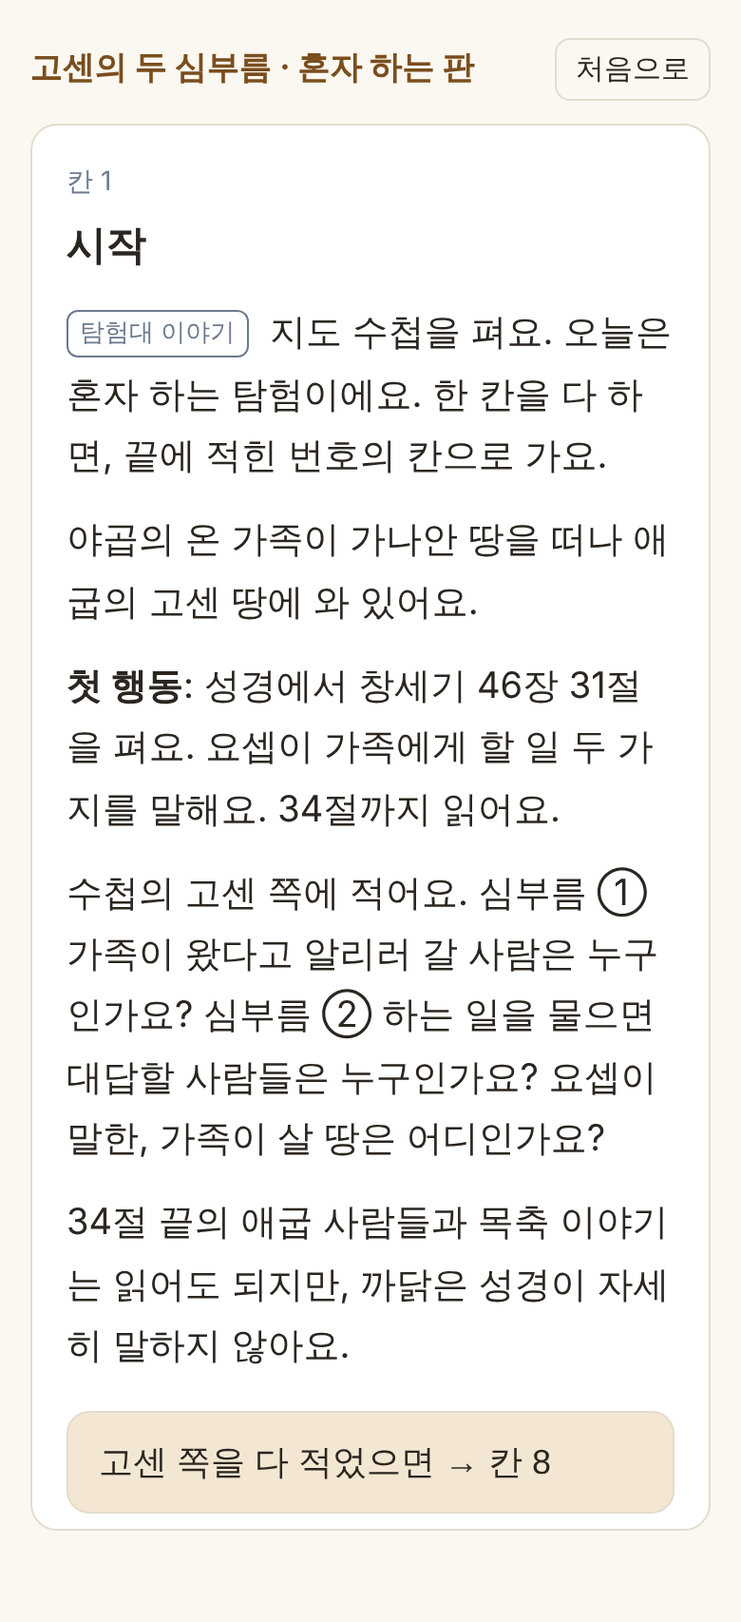
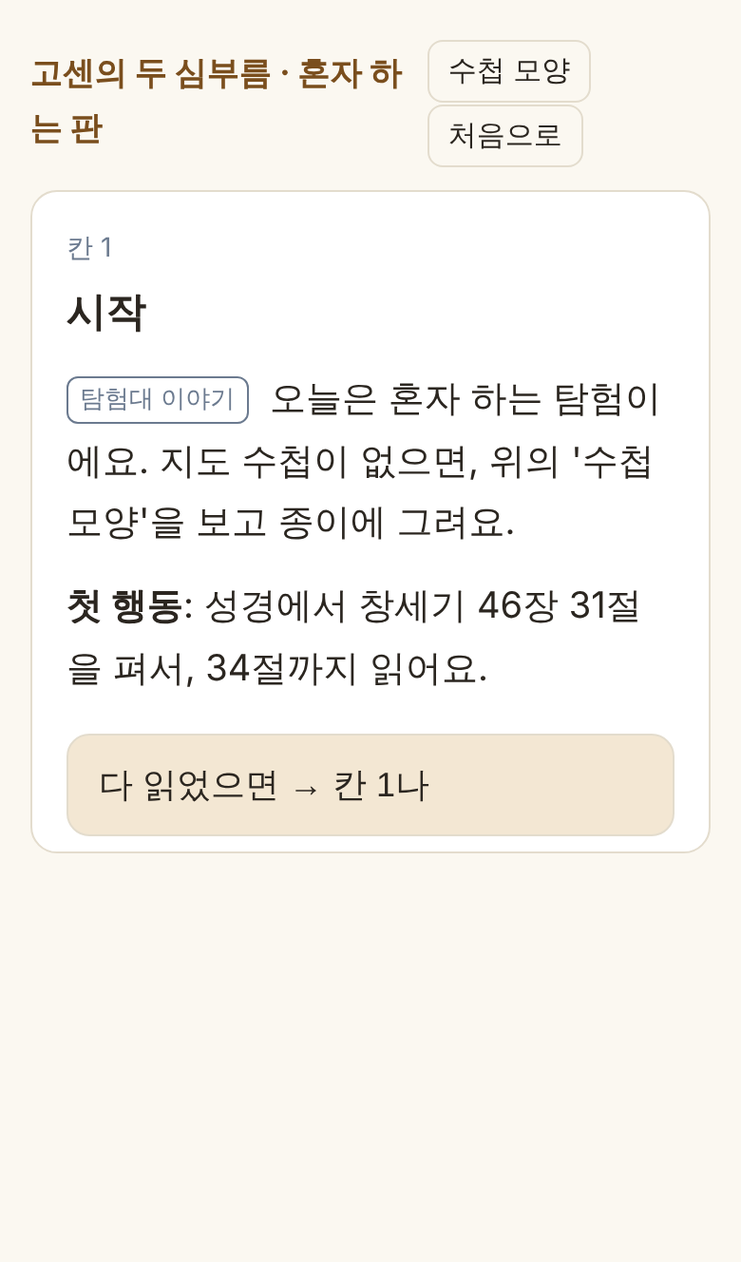
C16 혼자 하는 판: 별도 검증 반영, 긴 칸 나눔, 화면판 다시 시험
Claude-Session: https://claude.ai/code/session_011ypqq5pUoRzZHG4w3uRk8M

diff --git a/docs/창세기/연속/C16.html b/docs/창세기/연속/C16.html
@@ -19,12 +19,13 @@ p{margin:0 0 12px}
 .btns button{font-size:18px;text-align:left;background:var(--btn);color:var(--fg);border:1px solid var(--line);border-radius:12px;padding:14px 16px;cursor:pointer}
 .end{margin-top:16px;font-weight:600;color:var(--accent)}
 </style></head><body><main>
-<header><h1>고센의 두 심부름 · 혼자 하는 판</h1><button class="home" id="home">처음으로</button></header>
+<header><h1>고센의 두 심부름 · 혼자 하는 판</h1><span><button class="home" id="nb">수첩 모양</button> <button class="home" id="home">처음으로</button></span></header>
 <div class="card" id="card"></div>
 </main>
 <script>
-const D={"1": {"name": "시작", "paras": ["<span class=\"tag\">탐험대 이야기</span> 지도 수첩을 펴요. 오늘은 혼자 하는 탐험이에요. 한 칸을 다 하면, 끝에 적힌 번호의 칸으로 가요.", "야곱의 온 가족이 가나안 땅을 떠나 애굽의 고센 땅에 와 있어요.", "<strong>첫 행동</strong>: 성경에서 창세기 46장 31절을 펴요. 요셉이 가족에게 할 일 두 가지를 말해요. 34절까지 읽어요.", "수첩의 고센 쪽에 적어요. 심부름 ① 가족이 왔다고 알리러 갈 사람은 누구인가요? 심부름 ② 하는 일을 물으면 대답할 사람들은 누구인가요? 요셉이 말한, 가족이 살 땅은 어디인가요?", "34절 끝의 애굽 사람들과 목축 이야기는 읽어도 되지만, 까닭은 성경이 자세히 말하지 않아요."], "btns": [{"to": "8", "label": "고센 쪽을 다 적었으면"}], "end": false}, "3": {"name": "● 쪽: 만나러 간 사람", "paras": ["창세기 47장 1절을 펴요. 요셉은 누구에게 갔나요? 46장 31절에서 요셉이 알리러 가겠다고 한 사람과 같은지도 봐요.", "<span class=\"tag\">탐험대 이야기</span> ● 쪽 맨 위와 수첩 겉의 ● 칸에 그 이름을 적어요. 만난 차례의 첫째 칸에는 &#x27;요셉&#x27;을 적어요.", "아버지와 형들이 와 있다는 것을, 요셉이 그 사람에게 알렸어요. 첫째 심부름이에요."], "btns": [{"to": "5", "label": "다 적었으면"}], "end": false}, "4": {"name": "고르기: 먹을 것", "paras": ["먹을 것도 요셉이 가족에게 주었어요.", "이번에는 성경을 덮고 먼저 골라요. 요셉은 먹을 것을 무엇에 맞춰 주었을까요?"], "btns": [{"to": "15", "label": "가축 수에 맞춰"}, {"to": "10", "label": "식구 수에 맞춰"}], "end": false}, "5": {"name": "고르기: 형은 몇 명", "paras": ["다음에는 요셉이 형들을 바로 앞에 데려갔어요. 형들 가운데 몇 사람만 골라서요.", "이번에는 성경을 덮고 먼저 골라요. 바로 앞에 간 형은 몇 명이었을까요?"], "btns": [{"to": "12", "label": "열 명"}, {"to": "7", "label": "다섯 명"}], "end": false}, "7": {"name": "형 다섯 명과 둘째 심부름", "paras": ["창세기 47장 2절을 펴서, 바로 앞에 간 형의 수를 확인해요. 만난 차례의 둘째 칸에 &#x27;형 (　) 명&#x27;을 적어요. 수첩 겉의 ● 칸 아래에도 그 수를 적어요.", "47장 3절을 읽어요. 형들에게 바로가 무엇을 물었나요?", "형들은 자기들 말고 또 누가 그 일을 했다고 대답했나요? 46장 34절 요셉의 말에도 같은 낱말이 있어요. 형들의 대답 칸에 적어요. (&#x27;우리&#x27;나 &#x27;종들&#x27;도 두 곳에 다 있지만, 사람을 가리키는 낱말을 찾아요.)", "47장 7절을 읽어요. 마지막으로 바로 앞에 선 사람은 누구인가요? 만난 차례의 셋째 칸에 적어요."], "btns": [{"to": "9", "label": "다 적었으면"}], "end": false}, "8": {"name": "고센 쪽 확인", "paras": ["내 답과 견줘 봐요. 심부름 ①은 요셉이에요. 심부름 ②는 형들이에요(&#x27;형들과 아버지의 가족&#x27;도 맞아요). 요셉이 말한 땅은 고센이에요(46장 34절).", "다른 곳이 있으면 46장 31–34절을 다시 읽고 고쳐요.", "이제 먼저 풀 물음을 하나 골라요. 맞고 틀림은 없어요."], "btns": [{"to": "3", "label": "누구를 만나러 갔나?"}, {"to": "11", "label": "무엇을 받았나?"}], "end": false}, "9": {"name": "● 쪽 확인", "paras": ["내 답과 견줘 봐요. 요셉이 간 사람은 바로예요(47장 1절). 만난 차례는 요셉 → 형 다섯 명 → 아버지 야곱이에요(47장 1, 2, 7절). 바로가 물은 것은 생업, 곧 하는 일이에요(47장 3절). 같은 낱말은 &#x27;선조&#x27;예요(46장 34절, 47장 3절).", "다른 곳이 있으면 그 절을 다시 읽고 고쳐요.", "<span class=\"tag\">탐험대 이야기</span> 일지에 적어요. ● 바로를 만난 차례(창세기 47장 1, 2, 7절), 두 심부름(창세기 46장 31–34절, 47장 1–3절), 다른 때 칸을 다녀왔으면 곡식을 사러 온 날(창세기 42장 3, 6절).", "▲ 쪽을 아직 안 했으면 지금 할 수도 있고, 다음에 해도 돼요."], "btns": [{"to": "11", "label": "▲ 쪽을 지금 한다"}, {"to": "16", "label": "오늘은 여기까지"}], "end": false}, "10": {"name": "먹을 것 확인하기", "paras": ["창세기 47장 12절을 펴요. 라암셋이 나온 절 바로 다음이에요.", "요셉은 먹을 것을 무엇에 맞춰 주었나요? ▲ 쪽 &#x27;먹을 것&#x27; 칸에 적어요."], "btns": [{"to": "13", "label": "다 적었으면"}], "end": false}, "11": {"name": "▲ 쪽: 받은 땅", "paras": ["창세기 47장 11절을 펴요. 요셉이 가족에게 준 땅의 이름은 무엇인가요?", "<span class=\"tag\">탐험대 이야기</span> ▲ 쪽 맨 위와 수첩 겉의 ▲ 칸에 그 이름을 적어요. 받은 것의 살 곳 칸에도 적어요.", "&#x27;고센&#x27;이 떠올랐나요? 고센은 47장 6절에서 바로가 말한 땅이에요. 요셉이 준 곳을 적은 11절에는 다른 이름이 나와요. 성경은 여기서 두 이름이 어떤 사이인지 말하지 않아요.", "47장 6절을 읽어요. 고센 쪽에 적은 땅 이름이 바로의 말에도 나오나요? ▲ 쪽 확인 칸에 &#x27;나온다&#x27; 또는 &#x27;안 나온다&#x27;를 적어요."], "btns": [{"to": "4", "label": "다 적었으면"}], "end": false}, "12": {"name": "다른 때: 곡식을 사러 온 날", "paras": ["<span class=\"tag\">탐험대 이야기</span> 다른 때로 가 봐요. 형들이 처음 곡식을 사러 애굽에 온 날이에요.", "창세기 42장 6절을 펴요. 형들이 그 앞에 엎드린 사람은 누구인가요? ● 쪽 맨 위에 적은 사람과 같은가요?", "42장 3절도 읽어요. 이날 곡식을 사러 온 형은 몇 명이었나요?", "열 명은 곡식을 사러 온 날의 형들이에요. 바로 앞에 간 형의 수는 47장에 있어요."], "btns": [{"to": "5", "label": "다시 고르러 (칸 5)"}], "end": false}, "13": {"name": "▲ 쪽 확인", "paras": ["내 답과 견줘 봐요. 요셉이 준 땅은 라암셋이에요(47장 11절). 고센은 바로의 말에도 나와요(47장 6절). 먹을 것은 식구 수대로 주었어요(47장 12절).", "다른 곳이 있으면 그 절을 다시 읽고 고쳐요.", "<span class=\"tag\">탐험대 이야기</span> 일지에 적어요. ▲ 가족이 받은 것(창세기 47장 11–12절), 요셉이 말한 땅과 바로의 말(창세기 46장 34절, 47장 6절), 다른 때 칸을 다녀왔으면 돈이 떨어진 때(창세기 47장 15–17절).", "● 쪽을 아직 안 했으면 지금 할 수도 있고, 다음에 해도 돼요."], "btns": [{"to": "3", "label": "● 쪽을 지금 한다"}, {"to": "16", "label": "오늘은 여기까지"}], "end": false}, "15": {"name": "다른 때: 돈이 떨어진 때", "paras": ["<span class=\"tag\">탐험대 이야기</span> 다른 때로 가 봐요. 흉년이 더 심해져 돈이 떨어진 때예요.", "창세기 47장 13–17절을 펴요. 돈이 떨어져 요셉에게 온 사람들은 누구인가요? ▲ 쪽에서 먹을 것을 받은 사람들과 같은가요?", "가축과 바꾸어 먹을 것을 받은 일은 애굽 백성에게 있었던 일이에요. 18절부터의 일은 이 판에서 읽지 않아도 돼요."], "btns": [{"to": "4", "label": "다시 고르러 (칸 4)"}], "end": false}, "16": {"name": "수첩 닫기", "paras": ["<span class=\"tag\">탐험대 이야기</span> 수첩 겉의 지도를 봐요. 빈칸을 몇 개 채웠나요? 남은 빈칸이 있으면, 다음에 칸 8에서 남은 물음을 골라 그 쪽을 열어요.", "(원하면) 한 문장 기도: 우리 가족에게 살 곳과 먹을 것을 주시는 하나님, 고맙습니다."], "btns": [], "end": true}};
+const D={"1": {"name": "시작", "paras": ["<span class=\"tag\">탐험대 이야기</span> 오늘은 혼자 하는 탐험이에요. 지도 수첩이 없으면, 위의 &#x27;수첩 모양&#x27;을 보고 종이에 그려요.", "<strong>첫 행동</strong>: 성경에서 창세기 46장 31절을 펴서, 34절까지 읽어요."], "btns": [{"to": "1나", "label": "다 읽었으면"}], "end": false}, "1나": {"name": "고센 쪽 채우기", "paras": ["요셉이 가족에게 할 일 두 가지를 말했어요. <span class=\"tag\">탐험대 이야기</span> 이 판에서는 그 두 가지를 &#x27;심부름&#x27;이라고 불러요.", "<span class=\"tag\">탐험대 이야기</span> 수첩의 고센 쪽에 적어요. 심부름 ①을 할 사람, 심부름 ②를 할 사람들, 요셉이 말한 가족이 살 땅이에요."], "btns": [{"to": "8", "label": "고센 쪽을 다 적었으면"}], "end": false}, "3": {"name": "● 쪽: 먼저 고르기", "paras": ["47장에서 요셉은 두 심부름을 하러 가요. 형들 가운데 몇 사람만 골라 데려가요.", "47장을 펴기 전에 먼저 골라요. 데려간 형은 몇 명이었을까요?"], "btns": [{"to": "12", "label": "열 명"}, {"to": "7", "label": "다섯 명"}], "end": false}, "7": {"name": "47장 처음 읽기", "paras": ["<span class=\"tag\">탐험대 이야기</span> 이제 47장을 펴요. 1절에서 요셉은 누구에게 갔나요? 46장 31절의 사람과 같은지도 봐요.", "<span class=\"tag\">탐험대 이야기</span> ● 쪽 맨 위, 겉의 ● 칸, 만난 차례의 첫째 칸(요셉)을 채워요."], "btns": [{"to": "7나", "label": "다 적었으면"}], "end": false}, "7나": {"name": "형들과 바로의 물음", "paras": ["47장 2절에서, 그 앞에 간 형의 수를 확인해요. <span class=\"tag\">탐험대 이야기</span> 만난 차례의 둘째 칸과 겉의 ● 칸 옆에 적어요.", "3절에서, 형들에게 바로가 무엇을 물었는지 찾아 &#x27;바로의 물음&#x27;에 적어요. (&#x27;생업&#x27;은 하는 일이에요.)"], "btns": [{"to": "7다", "label": "다 적었으면"}], "end": false}, "7다": {"name": "형들의 대답과 마지막 사람", "paras": ["3절에서, 형들은 자기들 말고 또 누가 그 일을 했다고 대답했나요? 46장 34절 요셉의 말에도 같은 낱말이 있어요.", "&#x27;우리&#x27;와 &#x27;종들&#x27;은 형들 자신이니, 자기들 말고 그 일을 한 사람을 찾아 적어요.", "7절에서, 마지막으로 바로 앞에 선 사람을 찾아 만난 차례의 셋째 칸에 적어요."], "btns": [{"to": "9", "label": "다 적었으면"}], "end": false}, "8": {"name": "고센 쪽 확인", "paras": ["내 답과 견줘 봐요. ①은 요셉, ②는 형들이에요(형들과 아버지의 가족도 맞아요).", "&#x27;당신들&#x27;이라고 적었다면 31절에서 요셉이 누구에게 말했는지 봐요. 가족이 살 땅은 고센이에요(46장 34절)."], "btns": [{"to": "8나", "label": "다른 곳은 다시 읽고 고쳐요."}], "end": false}, "8나": {"name": "먼저 풀 물음 고르기", "paras": ["이제 먼저 풀 물음을 하나 골라요. 맞고 틀림은 없어요."], "btns": [{"to": "3", "label": "누구를 만나러 갔나?"}, {"to": "11", "label": "무엇을 받았나?"}], "end": false}, "9": {"name": "● 쪽 확인", "paras": ["내 답과 견줘 봐요. 요셉이 간 사람은 바로예요(47장 1절). 만난 차례는 요셉 → 형 다섯 명 → 아버지 야곱이에요(47장 1, 2, 7절)."], "btns": [{"to": "9나", "label": "다른 곳은 다시 읽고 고쳐요."}], "end": false}, "9나": {"name": "● 쪽 확인 (이어서)", "paras": ["바로가 물은 것은 생업, 곧 하는 일이에요(3절). 형들이 말한 사람은 &#x27;선조&#x27;예요(46장 34절, 47장 3절).", "&#x27;우리&#x27;, &#x27;종들&#x27;은 형들 자신이라 답이 아니에요."], "btns": [{"to": "9다", "label": "다른 곳은 다시 읽고 고쳐요."}], "end": false}, "9다": {"name": "● 쪽 마무리", "paras": ["칸 12를 다녀왔다면, 형들이 엎드린 사람은 요셉이고 그날 온 형은 열 명이에요(42장 3, 6절). 바로 앞에 간 다섯 명과 다른 날이에요.", "<span class=\"tag\">탐험대 이야기</span> 일지에 적어요. &#x27;바로를 만난 차례 · 47장 1, 2, 7절 · 요셉 → 형 다섯 명 → 아버지 야곱&#x27;."], "btns": [{"to": "11", "label": "▲ 쪽도 지금 해요"}, {"to": "16", "label": "두 쪽을 다 했거나, 오늘은 여기까지"}], "end": false}, "10": {"name": "47장 11–12절 읽기", "paras": ["<span class=\"tag\">탐험대 이야기</span> 이제 47장을 펴요. 11절에서 요셉이 가족에게 준 땅의 이름을 찾아, ▲ 쪽 맨 위와 겉의 ▲ 칸, 받은 것의 살 곳에 적어요.", "바로 다음 12절에서, 먹을 것을 무엇에 맞춰 주었는지 찾아 받은 것의 먹을 것에 적어요."], "btns": [{"to": "10나", "label": "다 적었으면"}], "end": false}, "10나": {"name": "바로의 말", "paras": ["47장 6절을 읽어요. 고센 쪽에 적은 땅 이름이 바로의 말에도 나오나요?", "<span class=\"tag\">탐험대 이야기</span> ▲ 쪽 확인 칸에 &#x27;나온다&#x27; 또는 &#x27;안 나온다&#x27;를 적어요."], "btns": [{"to": "13", "label": "다 적었으면"}], "end": false}, "11": {"name": "▲ 쪽: 먼저 고르기", "paras": ["<span class=\"tag\">탐험대 이야기</span> ▲ 쪽은 &#x27;무엇을 받았나&#x27;예요. 요셉은 가족에게 먹을 것도 주었어요.", "47장을 펴기 전에 먼저 골라요. 먹을 것은 무엇에 맞춰 주었을까요?"], "btns": [{"to": "15", "label": "가축 수에 맞춰"}, {"to": "10", "label": "식구 수에 맞춰"}], "end": false}, "12": {"name": "다른 때: 곡식을 사러 온 날", "paras": ["<span class=\"tag\">탐험대 이야기</span> 다른 때로 가 봐요. 형들이 처음 곡식을 사러 애굽에 온 날이에요.", "42장 6절: 형들이 그 앞에 엎드린 사람은 누구인가요? 42장 3절: 이날 온 형은 몇 명인가요?"], "btns": [{"to": "3", "label": "찾았으면, 다시 고르러"}], "end": false}, "13": {"name": "▲ 쪽 확인", "paras": ["내 답과 견줘 봐요. 요셉이 준 땅은 라암셋이에요(47장 11절). 먹을 것은 식구 수대로 주었어요(12절). 고센은 바로의 말에도 나와요(6절)."], "btns": [{"to": "13나", "label": "다른 곳은 다시 읽고 고쳐요."}], "end": false}, "13나": {"name": "▲ 쪽 확인 (이어서)", "paras": ["고센과 라암셋이 어떤 사이인지 이곳에서 성경은 말하지 않아요. 같은 장 27절에는 가족이 고센 땅에 살았다고 적혀 있어요.", "칸 15를 다녀왔다면, 가축을 끌고 온 사람들은 애굽 백성이에요(47장 15–17절). 요셉의 가족과 다른 사람들이에요."], "btns": [{"to": "13다", "label": "다 읽었으면"}], "end": false}, "13다": {"name": "▲ 쪽 마무리", "paras": ["<span class=\"tag\">탐험대 이야기</span> 일지에 적어요. &#x27;가족이 받은 것 · 47장 11–12절 · 살 곳 라암셋 땅, 먹을 것 식구 수대로&#x27;."], "btns": [{"to": "3", "label": "● 쪽도 지금 해요"}, {"to": "16", "label": "두 쪽을 다 했거나, 오늘은 여기까지"}], "end": false}, "15": {"name": "다른 때: 돈이 떨어진 때", "paras": ["<span class=\"tag\">탐험대 이야기</span> 다른 때로 가 봐요. 흉년이 더 심해져 돈이 떨어진 때예요.", "47장 15–17절에서, 돈이 떨어져 요셉에게 온 사람들을 찾아봐요. 18절부터는 읽지 않아도 돼요."], "btns": [{"to": "11", "label": "찾았으면, 다시 고르러"}], "end": false}, "16": {"name": "수첩 닫기", "paras": ["<span class=\"tag\">탐험대 이야기</span> 수첩 겉의 지도를 봐요. 빈칸을 몇 개 채웠나요? 남은 빈칸이 있으면, 다음에 칸 8나에서 남은 물음을 골라요.", "(원하면) 한 문장 기도: 우리 가족에게 살 곳과 먹을 것을 주시는 하나님, 고맙습니다."], "btns": [], "end": true}};
 const FIRST="1";
+const NB="<p><span class=\"tag\">탐험대 이야기</span> <strong>겉 면</strong>: 가나안 땅 → 고센 땅 · ● (　　　) 앞, 그 앞에 선 형 (　) 명 · ▲ (　　　) 땅 · 칸의 자리는 실제 거리나 방향이 아니에요.</p><p><strong>고센 쪽 · 창세기 46장</strong>: 심부름 ① 가족이 왔다고 알리러 갈 사람 (　　) · 심부름 ② 하는 일을 물으면 대답할 사람들 (　　) · 요셉이 말한, 가족이 살 땅 (　　) 땅</p><p><strong>● 쪽 · 창세기 47장</strong>: (　　　) 앞 · 만난 차례: 첫째 (　　) → 둘째 (　　) → 셋째 (　　) · 바로의 물음 (　　) · 형들의 대답에서, 자기들 말고 그 일을 했다는 사람 (　　)</p><p><strong>▲ 쪽 · 창세기 47장</strong>: (　　　) 땅 · 받은 것: 살 곳 (　　), 먹을 것 (　　) · 확인: 고센 쪽에 적은 땅 이름이 바로의 말에도 나오나요? (나온다 / 안 나온다)</p>";
 function show(n){
   const s=D[n]; const c=document.getElementById('card');
   let h='<p class="num">칸 '+n+'</p><h2>'+s.name+'</h2>';
@@ -35,5 +36,6 @@ function show(n){
   c.querySelectorAll('button[data-to]').forEach(b=>b.addEventListener('click',()=>show(b.dataset.to)));
 }
 document.getElementById('home').addEventListener('click',()=>show(FIRST));
+document.getElementById('nb').addEventListener('click',()=>{const c=document.getElementById('card');const back=c.dataset.cur;c.innerHTML='<p class="num">수첩 빈칸 (답 없음)</p><h2>종이에 옮겨 그려요</h2>'+NB+'<div class="btns"><button id="back">하던 칸으로 돌아가기</button></div>';document.getElementById('back').addEventListener('click',()=>show(back));});
 show(FIRST);
 </script></body></html>

diff --git a/docs/창세기/연속/C16.md b/docs/창세기/연속/C16.md
@@ -1,129 +1,159 @@
 # C16 · 혼자서도 한 판 (고센의 두 심부름 1인판)
 
-C11(고센의 두 심부름)을 어른 없이 혼자 하는 판으로 고쳤다. 아이는 번호가 붙은 칸을 하나씩 읽고, 칸 끝에 적힌 번호로 간다. 고르기가 있는 칸에서는 고른 보기에 적힌 번호로 간다. 정답은 아이가 답을 적은 뒤에 가는 **확인 칸**에만 있다. 화면판(`C16.html`)은 한 번에 한 칸만 보여 주어 다음 칸의 정답이 보이지 않는다. 인쇄판은 한 쪽에 한 칸만 놓고 뒷면을 비워, 다음 쪽의 정답이 비치지 않게 한다. 첫 화면에는 첫 행동(창세기 46장 31절을 펴고 고센 쪽을 채우기)이 바로 보인다.
+C11(고센의 두 심부름)을 어른 없이 혼자 하는 판으로 고쳤다. 아이는 번호가 붙은 칸을 하나씩 읽고, 칸 끝에 적힌 번호로 간다. 고르기가 있는 칸에서는 고른 보기에 적힌 번호로 간다. 고르기는 47장을 펴기 전에 한다. 정답은 아이가 답을 적은 뒤에 가는 **확인 칸**에만 있다. 화면판(`C16.html`)은 한 번에 한 칸만 보여 주고, 위의 '수첩 모양' 단추로 답이 없는 수첩 빈칸을 보여 준다. 인쇄판은 확인 칸을 따로 떼어 봉투에 넣고, 나머지 칸은 한 쪽에 하나씩 인쇄한다. 첫 화면에는 첫 행동(창세기 46장 31절을 펴서 34절까지 읽기)이 바로 보인다.
 
 ## 카드 정보
 
 | 항목 | 내용 |
 |---|---|
-| 카드 번호 | C16 (바탕: C11. 별도 검증을 반영한 C11의 칸 2~13을 혼자 읽는 말로 바꿨다) |
-| 근거 장절 | 창 46:31–34, 47:1–17, 42:3, 6 |
-| 나이 단계 | 11~13세 (혼자 읽는다. 아이에게 장절을 알려 주고 스스로 찾게 한다. 공통 규칙서 5절) |
+| 카드 번호 | C16 (바탕: C11. 별도 검증을 반영한 C11을 혼자 읽는 말로 바꿨다) |
+| 근거 장절 | 창 46:28, 31–34, 47:1–17, 27, 42:3, 6 |
+| 나이 단계 | 11~13세 (혼자 읽는다. 칸마다 장절을 알려 주고 스스로 찾게 한다. 한 화면 2~4문장. 공통 규칙서 5절) |
 | 사람 수 | 한 사람 |
 | 걸리는 때 | ⚠ 추정 두 쪽 모두 20분, 한 쪽만 12분 (혼자 시험한 것이라 실제 아이와 잰 시간이 아니다) |
-| 질문과 보기 | (먼저 풀 물음, 맞고 틀림 없음) 누구를 만나러 갔나? / 무엇을 받았나? (● 쪽) 바로 앞에 간 형은 몇 명이었을까요? 열 명(창 42:3, 곡식을 사러 온 날) / 다섯 명(창 47:2) (▲ 쪽) 먹을 것은 무엇에 맞춰 주었을까요? 가축 수에 맞춰(창 47:16–17, 애굽 백성의 일) / 식구 수에 맞춰(창 47:12). 두 고르기 모두 성경을 덮고 먼저 고른다(공통 규칙서 4.1) |
+| 질문과 보기 | (먼저 풀 물음, 맞고 틀림 없음) 누구를 만나러 갔나? / 무엇을 받았나? (● 쪽) 그 앞에 간 형은 몇 명이었을까요? 열 명(창 42:3, 곡식을 사러 온 날) / 다섯 명(창 47:2) (▲ 쪽) 먹을 것은 무엇에 맞춰 주었을까요? 가축 수에 맞춰(창 47:16–17, 애굽 백성의 일) / 식구 수에 맞춰(창 47:12). 두 고르기 모두 47장을 펴기 전에 먼저 고른다(공통 규칙서 4.1) |
 | 정답 근거 | C11과 같다. ● 바로(47:1), 차례 요셉 → 형 다섯 명 → 아버지 야곱(47:1, 2, 7), 바로의 물음 생업(47:3), 형들이 말한 선조(46:34, 47:3) / ▲ 라암셋(47:11), 바로의 말에도 고센(46:34, 47:6), 식구 수대로(47:12) |
 | 성경 찾기 안내 | 11~13세 기준대로 칸마다 장절을 알려 준다. 아이가 스스로 펴서 찾는다 |
-| 다른 장면 | C11과 같다. 곡식을 사러 온 날(창 42:3, 6), 돈이 떨어진 때(창 47:13–17). 고르기에서 앞의 보기를 고르면 그 칸으로 가서 사람이 다른 것을 찾고 돌아온다 |
-| 준비물 | 성경책, 지도 수첩(C11의 '인쇄용 수첩과 카드'를 쓰거나, 종이 한 장에 겉 면·고센 쪽·● 쪽·▲ 쪽을 그린다), 탐험 일지(종이), 연필. 화면판으로 하면 휴대폰이나 컴퓨터 하나 |
+| 다른 장면 | C11과 같다. 곡식을 사러 온 날(창 42:3, 6), 돈이 떨어진 때(창 47:13–17). 고르기에서 앞의 보기를 고르면 그 칸으로 가서 사람을 찾고, 다시 고르러 돌아온다. 찾은 사람이 맞는지는 확인 칸에서 본다 |
+| 준비물 | 성경책, 아래 '수첩 빈칸'을 옮겨 그린 종이(화면판은 '수첩 모양' 단추), 탐험 일지(종이), 연필. 화면판으로 하면 휴대폰이나 컴퓨터 하나. 인쇄판은 봉투 하나 |
 | 참고 출처 | 성경 본문만 썼다 |
 | 감수 필수 여부 | 3.5 주제에 해당하지 않음. C11처럼, 칸 15(47:13–17)를 평가 없이 '누가 왔는가'만 찾게 한 처리는 감수 때 함께 봐 주기를 권한다 |
 | 감수 상태 | 미감수 |
 
 ## 인쇄와 화면
 
-- **화면판**: 같은 폴더의 `C16.html`을 휴대폰이나 컴퓨터의 브라우저로 연다. 인터넷이 없어도 열린다. 한 화면에 한 칸만 보이고, 칸 끝의 단추를 누르면 그 번호의 칸으로 간다. '처음으로' 단추로 첫 칸에 돌아간다. 화면판의 글은 아래 '1인판 원고'에서 스크립트로 만든다(원고를 고치면 다시 만든다).
-- **인쇄판**: 아래 '1인판 원고'의 칸을 한 쪽에 하나씩 인쇄한다. 앞면만 인쇄하고 뒷면은 비운다. 칸 번호 차례대로 묶는다. 칸 번호는 흩어 두어서, 묻는 칸 바로 다음 쪽에 그 확인 칸이 오지 않는다. 확인 칸(8, 9, 13)은 묻는 칸(1, 7, 10)과 붙어 있지 않다.
-- **접지 않는다**: 이 판은 C11처럼 메모지로 쪽을 덮을 필요가 없다. 확인 칸에 가기 전에는 정답이 보이지 않는다.
+- **화면판**: 같은 폴더의 `C16.html`을 휴대폰이나 컴퓨터의 브라우저로 연다. 인터넷이 없어도 열린다. 한 화면에 한 칸만 보이고, 칸 끝의 단추를 누르면 그 칸으로 간다. 위의 '수첩 모양' 단추는 답이 없는 수첩 빈칸을, '처음으로' 단추는 첫 칸을 보여 준다. 화면판의 글은 아래 '1인판 원고'와 '수첩 빈칸'에서 스크립트로 만든다(원고를 고치면 다시 만든다).
+- **인쇄판**: 확인 칸(8, 9, 9나, 9다, 13, 13나, 13다)은 따로 인쇄해 봉투에 넣어 두고, 원고가 그 칸으로 가라고 할 때만 꺼낸다. 나머지 칸은 한 쪽에 하나씩, 앞면만 인쇄해 번호 차례로 묶는다. 칸 번호는 띄엄띄엄 있다. 없는 번호는 빠진 쪽이 아니다. 수첩 빈칸은 첫 쪽 앞에 둔다.
+- **접지 않는다**: C11처럼 메모지로 쪽을 덮지 않는다. 확인 칸에 가기 전에는 정답이 보이지 않는다.
+
+## 수첩 빈칸 (답 없음)
+
+- 『탐험대 이야기』 **겉 면**: 가나안 땅 → 고센 땅 · ● (　　　) 앞, 그 앞에 선 형 (　) 명 · ▲ (　　　) 땅 · 칸의 자리는 실제 거리나 방향이 아니에요.
+- **고센 쪽 · 창세기 46장**: 심부름 ① 가족이 왔다고 알리러 갈 사람 (　　) · 심부름 ② 하는 일을 물으면 대답할 사람들 (　　) · 요셉이 말한, 가족이 살 땅 (　　) 땅
+- **● 쪽 · 창세기 47장**: (　　　) 앞 · 만난 차례: 첫째 (　　) → 둘째 (　　) → 셋째 (　　) · 바로의 물음 (　　) · 형들의 대답에서, 자기들 말고 그 일을 했다는 사람 (　　)
+- **▲ 쪽 · 창세기 47장**: (　　　) 땅 · 받은 것: 살 곳 (　　), 먹을 것 (　　) · 확인: 고센 쪽에 적은 땅 이름이 바로의 말에도 나오나요? (나온다 / 안 나온다)
 
 ## 1인판 원고 (화면과 인쇄 공용)
 
 ### 칸 1 · 시작
 
-- 『탐험대 이야기』 지도 수첩을 펴요. 오늘은 혼자 하는 탐험이에요. 한 칸을 다 하면, 끝에 적힌 번호의 칸으로 가요.
-- 야곱의 온 가족이 가나안 땅을 떠나 애굽의 고센 땅에 와 있어요.
-- **첫 행동**: 성경에서 창세기 46장 31절을 펴요. 요셉이 가족에게 할 일 두 가지를 말해요. 34절까지 읽어요.
-- 수첩의 고센 쪽에 적어요. 심부름 ① 가족이 왔다고 알리러 갈 사람은 누구인가요? 심부름 ② 하는 일을 물으면 대답할 사람들은 누구인가요? 요셉이 말한, 가족이 살 땅은 어디인가요?
-- 34절 끝의 애굽 사람들과 목축 이야기는 읽어도 되지만, 까닭은 성경이 자세히 말하지 않아요.
-- 고센 쪽을 다 적었으면 → 칸 8로 간다.
+- 『탐험대 이야기』 오늘은 혼자 하는 탐험이에요. 지도 수첩이 없으면, 위의 '수첩 모양'을 보고 종이에 그려요.
+- **첫 행동**: 성경에서 창세기 46장 31절을 펴서, 34절까지 읽어요.
+- 다 읽었으면 → 칸 1나로 가요.
 
-### 칸 3 · ● 쪽: 만나러 간 사람
+### 칸 1나 · 고센 쪽 채우기
 
-- 창세기 47장 1절을 펴요. 요셉은 누구에게 갔나요? 46장 31절에서 요셉이 알리러 가겠다고 한 사람과 같은지도 봐요.
-- 『탐험대 이야기』 ● 쪽 맨 위와 수첩 겉의 ● 칸에 그 이름을 적어요. 만난 차례의 첫째 칸에는 '요셉'을 적어요.
-- 아버지와 형들이 와 있다는 것을, 요셉이 그 사람에게 알렸어요. 첫째 심부름이에요.
-- 다 적었으면 → 칸 5로 간다.
+- 요셉이 가족에게 할 일 두 가지를 말했어요. 『탐험대 이야기』 이 판에서는 그 두 가지를 '심부름'이라고 불러요.
+- 『탐험대 이야기』 수첩의 고센 쪽에 적어요. 심부름 ①을 할 사람, 심부름 ②를 할 사람들, 요셉이 말한 가족이 살 땅이에요.
+- 고센 쪽을 다 적었으면 → 칸 8로 가요. (인쇄판은 봉투에서 칸 8을 꺼내요)
 
-### 칸 4 · 고르기: 먹을 것
+### 칸 3 · ● 쪽: 먼저 고르기
 
-- 먹을 것도 요셉이 가족에게 주었어요.
-- 이번에는 성경을 덮고 먼저 골라요. 요셉은 먹을 것을 무엇에 맞춰 주었을까요?
-- **가축 수에 맞춰** → 칸 15로 간다.
-- **식구 수에 맞춰** → 칸 10으로 간다.
+- 47장에서 요셉은 두 심부름을 하러 가요. 형들 가운데 몇 사람만 골라 데려가요.
+- 47장을 펴기 전에 먼저 골라요. 데려간 형은 몇 명이었을까요?
+- **열 명** → 칸 12로 가요.
+- **다섯 명** → 칸 7로 가요.
 
-### 칸 5 · 고르기: 형은 몇 명
+### 칸 7 · 47장 처음 읽기
 
-- 다음에는 요셉이 형들을 바로 앞에 데려갔어요. 형들 가운데 몇 사람만 골라서요.
-- 이번에는 성경을 덮고 먼저 골라요. 바로 앞에 간 형은 몇 명이었을까요?
-- **열 명** → 칸 12로 간다.
-- **다섯 명** → 칸 7로 간다.
+- 『탐험대 이야기』 이제 47장을 펴요. 1절에서 요셉은 누구에게 갔나요? 46장 31절의 사람과 같은지도 봐요.
+- 『탐험대 이야기』 ● 쪽 맨 위, 겉의 ● 칸, 만난 차례의 첫째 칸(요셉)을 채워요.
+- 다 적었으면 → 칸 7나로 가요.
 
-### 칸 7 · 형 다섯 명과 둘째 심부름
+### 칸 7나 · 형들과 바로의 물음
 
-- 창세기 47장 2절을 펴서, 바로 앞에 간 형의 수를 확인해요. 만난 차례의 둘째 칸에 '형 (　) 명'을 적어요. 수첩 겉의 ● 칸 아래에도 그 수를 적어요.
-- 47장 3절을 읽어요. 형들에게 바로가 무엇을 물었나요?
-- 형들은 자기들 말고 또 누가 그 일을 했다고 대답했나요? 46장 34절 요셉의 말에도 같은 낱말이 있어요. 형들의 대답 칸에 적어요. ('우리'나 '종들'도 두 곳에 다 있지만, 사람을 가리키는 낱말을 찾아요.)
-- 47장 7절을 읽어요. 마지막으로 바로 앞에 선 사람은 누구인가요? 만난 차례의 셋째 칸에 적어요.
-- 다 적었으면 → 칸 9로 간다.
+- 47장 2절에서, 그 앞에 간 형의 수를 확인해요. 『탐험대 이야기』 만난 차례의 둘째 칸과 겉의 ● 칸 옆에 적어요.
+- 3절에서, 형들에게 바로가 무엇을 물었는지 찾아 '바로의 물음'에 적어요. ('생업'은 하는 일이에요.)
+- 다 적었으면 → 칸 7다로 가요.
+
+### 칸 7다 · 형들의 대답과 마지막 사람
+
+- 3절에서, 형들은 자기들 말고 또 누가 그 일을 했다고 대답했나요? 46장 34절 요셉의 말에도 같은 낱말이 있어요.
+- '우리'와 '종들'은 형들 자신이니, 자기들 말고 그 일을 한 사람을 찾아 적어요.
+- 7절에서, 마지막으로 바로 앞에 선 사람을 찾아 만난 차례의 셋째 칸에 적어요.
+- 다 적었으면 → 칸 9로 가요. (인쇄판은 봉투에서 칸 9를 꺼내요)
 
 ### 칸 8 · 고센 쪽 확인
 
-- 내 답과 견줘 봐요. 심부름 ①은 요셉이에요. 심부름 ②는 형들이에요('형들과 아버지의 가족'도 맞아요). 요셉이 말한 땅은 고센이에요(46장 34절).
-- 다른 곳이 있으면 46장 31–34절을 다시 읽고 고쳐요.
+- 내 답과 견줘 봐요. ①은 요셉, ②는 형들이에요(형들과 아버지의 가족도 맞아요).
+- '당신들'이라고 적었다면 31절에서 요셉이 누구에게 말했는지 봐요. 가족이 살 땅은 고센이에요(46장 34절).
+- 다른 곳은 다시 읽고 고쳐요. → 칸 8나로 가요.
+
+### 칸 8나 · 먼저 풀 물음 고르기
+
 - 이제 먼저 풀 물음을 하나 골라요. 맞고 틀림은 없어요.
-- **누구를 만나러 갔나?** → 칸 3으로 간다.
-- **무엇을 받았나?** → 칸 11로 간다.
+- **누구를 만나러 갔나?** → 칸 3으로 가요.
+- **무엇을 받았나?** → 칸 11로 가요.
 
 ### 칸 9 · ● 쪽 확인
 
-- 내 답과 견줘 봐요. 요셉이 간 사람은 바로예요(47장 1절). 만난 차례는 요셉 → 형 다섯 명 → 아버지 야곱이에요(47장 1, 2, 7절). 바로가 물은 것은 생업, 곧 하는 일이에요(47장 3절). 같은 낱말은 '선조'예요(46장 34절, 47장 3절).
-- 다른 곳이 있으면 그 절을 다시 읽고 고쳐요.
-- 『탐험대 이야기』 일지에 적어요. ● 바로를 만난 차례(창세기 47장 1, 2, 7절), 두 심부름(창세기 46장 31–34절, 47장 1–3절), 다른 때 칸을 다녀왔으면 곡식을 사러 온 날(창세기 42장 3, 6절).
-- ▲ 쪽을 아직 안 했으면 지금 할 수도 있고, 다음에 해도 돼요.
-- **▲ 쪽을 지금 한다** → 칸 11로 간다.
-- **오늘은 여기까지** → 칸 16으로 간다.
+- 내 답과 견줘 봐요. 요셉이 간 사람은 바로예요(47장 1절). 만난 차례는 요셉 → 형 다섯 명 → 아버지 야곱이에요(47장 1, 2, 7절).
+- 다른 곳은 다시 읽고 고쳐요. → 칸 9나로 가요.
 
-### 칸 10 · 먹을 것 확인하기
+### 칸 9나 · ● 쪽 확인 (이어서)
 
-- 창세기 47장 12절을 펴요. 라암셋이 나온 절 바로 다음이에요.
-- 요셉은 먹을 것을 무엇에 맞춰 주었나요? ▲ 쪽 '먹을 것' 칸에 적어요.
-- 다 적었으면 → 칸 13으로 간다.
+- 바로가 물은 것은 생업, 곧 하는 일이에요(3절). 형들이 말한 사람은 '선조'예요(46장 34절, 47장 3절).
+- '우리', '종들'은 형들 자신이라 답이 아니에요.
+- 다른 곳은 다시 읽고 고쳐요. → 칸 9다로 가요.
 
-### 칸 11 · ▲ 쪽: 받은 땅
+### 칸 9다 · ● 쪽 마무리
 
-- 창세기 47장 11절을 펴요. 요셉이 가족에게 준 땅의 이름은 무엇인가요?
-- 『탐험대 이야기』 ▲ 쪽 맨 위와 수첩 겉의 ▲ 칸에 그 이름을 적어요. 받은 것의 살 곳 칸에도 적어요.
-- '고센'이 떠올랐나요? 고센은 47장 6절에서 바로가 말한 땅이에요. 요셉이 준 곳을 적은 11절에는 다른 이름이 나와요. 성경은 여기서 두 이름이 어떤 사이인지 말하지 않아요.
-- 47장 6절을 읽어요. 고센 쪽에 적은 땅 이름이 바로의 말에도 나오나요? ▲ 쪽 확인 칸에 '나온다' 또는 '안 나온다'를 적어요.
-- 다 적었으면 → 칸 4로 간다.
+- 칸 12를 다녀왔다면, 형들이 엎드린 사람은 요셉이고 그날 온 형은 열 명이에요(42장 3, 6절). 바로 앞에 간 다섯 명과 다른 날이에요.
+- 『탐험대 이야기』 일지에 적어요. '바로를 만난 차례 · 47장 1, 2, 7절 · 요셉 → 형 다섯 명 → 아버지 야곱'.
+- **▲ 쪽도 지금 해요** → 칸 11로 가요.
+- **두 쪽을 다 했거나, 오늘은 여기까지** → 칸 16으로 가요.
+
+### 칸 10 · 47장 11–12절 읽기
+
+- 『탐험대 이야기』 이제 47장을 펴요. 11절에서 요셉이 가족에게 준 땅의 이름을 찾아, ▲ 쪽 맨 위와 겉의 ▲ 칸, 받은 것의 살 곳에 적어요.
+- 바로 다음 12절에서, 먹을 것을 무엇에 맞춰 주었는지 찾아 받은 것의 먹을 것에 적어요.
+- 다 적었으면 → 칸 10나로 가요.
+
+### 칸 10나 · 바로의 말
+
+- 47장 6절을 읽어요. 고센 쪽에 적은 땅 이름이 바로의 말에도 나오나요?
+- 『탐험대 이야기』 ▲ 쪽 확인 칸에 '나온다' 또는 '안 나온다'를 적어요.
+- 다 적었으면 → 칸 13으로 가요. (인쇄판은 봉투에서 칸 13을 꺼내요)
+
+### 칸 11 · ▲ 쪽: 먼저 고르기
+
+- 『탐험대 이야기』 ▲ 쪽은 '무엇을 받았나'예요. 요셉은 가족에게 먹을 것도 주었어요.
+- 47장을 펴기 전에 먼저 골라요. 먹을 것은 무엇에 맞춰 주었을까요?
+- **가축 수에 맞춰** → 칸 15로 가요.
+- **식구 수에 맞춰** → 칸 10으로 가요.
 
 ### 칸 12 · 다른 때: 곡식을 사러 온 날
 
 - 『탐험대 이야기』 다른 때로 가 봐요. 형들이 처음 곡식을 사러 애굽에 온 날이에요.
-- 창세기 42장 6절을 펴요. 형들이 그 앞에 엎드린 사람은 누구인가요? ● 쪽 맨 위에 적은 사람과 같은가요?
-- 42장 3절도 읽어요. 이날 곡식을 사러 온 형은 몇 명이었나요?
-- 열 명은 곡식을 사러 온 날의 형들이에요. 바로 앞에 간 형의 수는 47장에 있어요.
-- 다시 고르러 → 칸 5로 돌아간다.
+- 42장 6절: 형들이 그 앞에 엎드린 사람은 누구인가요? 42장 3절: 이날 온 형은 몇 명인가요?
+- 찾았으면, 다시 고르러 → 칸 3으로 돌아가요.
 
 ### 칸 13 · ▲ 쪽 확인
 
-- 내 답과 견줘 봐요. 요셉이 준 땅은 라암셋이에요(47장 11절). 고센은 바로의 말에도 나와요(47장 6절). 먹을 것은 식구 수대로 주었어요(47장 12절).
-- 다른 곳이 있으면 그 절을 다시 읽고 고쳐요.
-- 『탐험대 이야기』 일지에 적어요. ▲ 가족이 받은 것(창세기 47장 11–12절), 요셉이 말한 땅과 바로의 말(창세기 46장 34절, 47장 6절), 다른 때 칸을 다녀왔으면 돈이 떨어진 때(창세기 47장 15–17절).
-- ● 쪽을 아직 안 했으면 지금 할 수도 있고, 다음에 해도 돼요.
-- **● 쪽을 지금 한다** → 칸 3으로 간다.
-- **오늘은 여기까지** → 칸 16으로 간다.
+- 내 답과 견줘 봐요. 요셉이 준 땅은 라암셋이에요(47장 11절). 먹을 것은 식구 수대로 주었어요(12절). 고센은 바로의 말에도 나와요(6절).
+- 다른 곳은 다시 읽고 고쳐요. → 칸 13나로 가요.
+
+### 칸 13나 · ▲ 쪽 확인 (이어서)
+
+- 고센과 라암셋이 어떤 사이인지 이곳에서 성경은 말하지 않아요. 같은 장 27절에는 가족이 고센 땅에 살았다고 적혀 있어요.
+- 칸 15를 다녀왔다면, 가축을 끌고 온 사람들은 애굽 백성이에요(47장 15–17절). 요셉의 가족과 다른 사람들이에요.
+- 다 읽었으면 → 칸 13다로 가요.
+
+### 칸 13다 · ▲ 쪽 마무리
+
+- 『탐험대 이야기』 일지에 적어요. '가족이 받은 것 · 47장 11–12절 · 살 곳 라암셋 땅, 먹을 것 식구 수대로'.
+- **● 쪽도 지금 해요** → 칸 3으로 가요.
+- **두 쪽을 다 했거나, 오늘은 여기까지** → 칸 16으로 가요.
 
 ### 칸 15 · 다른 때: 돈이 떨어진 때
 
 - 『탐험대 이야기』 다른 때로 가 봐요. 흉년이 더 심해져 돈이 떨어진 때예요.
-- 창세기 47장 13–17절을 펴요. 돈이 떨어져 요셉에게 온 사람들은 누구인가요? ▲ 쪽에서 먹을 것을 받은 사람들과 같은가요?
-- 가축과 바꾸어 먹을 것을 받은 일은 애굽 백성에게 있었던 일이에요. 18절부터의 일은 이 판에서 읽지 않아도 돼요.
-- 다시 고르러 → 칸 4로 돌아간다.
+- 47장 15–17절에서, 돈이 떨어져 요셉에게 온 사람들을 찾아봐요. 18절부터는 읽지 않아도 돼요.
+- 찾았으면, 다시 고르러 → 칸 11로 돌아가요.
 
 ### 칸 16 · 수첩 닫기
 
-- 『탐험대 이야기』 수첩 겉의 지도를 봐요. 빈칸을 몇 개 채웠나요? 남은 빈칸이 있으면, 다음에 칸 8에서 남은 물음을 골라 그 쪽을 열어요.
+- 『탐험대 이야기』 수첩 겉의 지도를 봐요. 빈칸을 몇 개 채웠나요? 남은 빈칸이 있으면, 다음에 칸 8나에서 남은 물음을 골라요.
 - (원하면) 한 문장 기도: 우리 가족에게 살 곳과 먹을 것을 주시는 하나님, 고맙습니다.
 - 끝.
 
@@ -133,12 +163,13 @@ C11(고센의 두 심부름)을 어른 없이 혼자 하는 판으로 고쳤다.
 
 | 바뀐 것 | 까닭 |
 |---|---|
-| 어른 줄을 혼자 읽는 말로 바꾸고, 쉼은 '다 적었으면'으로 바꿨다 | 진행자가 없다 |
+| 어른 줄을 혼자 읽는 말(해요체)로 바꾸고, 쉼은 '다 적었으면'으로 바꿨다 | 진행자가 없다 |
 | 칸마다 장절을 알려 준다 | 혼자 찾으려면 장만으로는 어렵다. 11~13세 기준(장절 안내 후 스스로 찾기)에 맞췄다 |
-| 정답은 확인 칸(8, 9, 13)에만 둔다 | 어른이 확인해 주던 일을 확인 칸이 맡는다. 화면판은 한 칸만 보이고, 인쇄판은 한 쪽에 한 칸이다 |
-| 칸 번호를 흩어 두었다(2, 6, 14는 없다) | 인쇄판에서 묻는 칸 바로 다음 쪽에 확인 칸이 오지 않게 했다 |
-| C11의 칸 6, 11의 '● 쪽(▲ 쪽)과 같은가요?'를 그대로 두었다 | 다른 때 칸에서 사람이 다른 것을 아이가 스스로 견주게 한다 |
-| 다른 때 칸의 마지막 줄 '열 명은 곡식을 사러 온 날의 형들', '애굽 백성에게 있었던 일' | 진행자가 없어 어긋남의 뜻을 글로 맺는다. 아이가 사람을 찾은 뒤의 줄이다 |
+| 두 고르기(칸 3, 11)를 47장을 펴기 전에 둔다 | 47:1과 47:11은 문장이 다음 절로 이어져, 47장을 먼저 펴면 '다섯 명'(47:2)과 '식구를 따라'(47:12)를 고르기 전에 읽게 된다(별도 검증 필수 3) |
+| 정답은 확인 칸(8, 9, 9나, 9다, 13, 13나, 13다)에만 둔다. 다른 때 칸에서 찾은 사람도 확인 칸에서 본다 | 어른이 확인해 주던 일을 확인 칸이 맡는다. 화면판은 한 칸만 보이고, 인쇄판은 확인 칸을 봉투에 따로 둔다 |
+| 수첩 빈칸을 이 문서와 화면판에 직접 실었다 | C11 문서는 답이 적혀 있어 아이가 열면 안 된다. 겉 면의 ● 칸은 '그 앞에 선 형'으로 적어 바로라는 이름을 미리 보이지 않게 했다 |
+| 긴 칸을 '나', '다'로 나눴다 | 11~13세 기준(한 화면 2~4문장)에 맞췄다 |
+| 칸 번호를 흩어 두었다 | 인쇄판에서 번호 차례로 묶어도 확인 칸은 봉투에 있으므로 넘기는 쪽에 정답이 없다 |
 
 ## 플레이 시험 기록 (2026-11-23)
 
@@ -146,26 +177,44 @@ C11(고센의 두 심부름)을 어른 없이 혼자 하는 판으로 고쳤다.
 
 | 시험 | 지나간 칸 | 결과 |
 |---|---|---|
-| 첫 화면 | 칸 1 | 휴대폰 크기(가로 390)로 열었을 때 첫 화면에 '첫 행동: 성경에서 창세기 46장 31절을 펴요'와 고센 쪽에 적을 세 가지, '칸 8' 단추가 한 화면에 보였다(사진 `docs/인계/사진/C16_첫화면.png`). 직접 해 본 첫 행동: 46:31–34를 펴서 요셉 / 형들 / 고센을 적음 |
-| ● 먼저, 다른 때 두 번, 두 쪽 모두 | 1 → 8 → 3 → 5 → 12 → 5 → 7 → 9 → 11 → 4 → 15 → 4 → 10 → 13 → 16 | 단추만 눌러 끝 칸에 닿았다. 다른 때 칸 두 곳에서 돌아와 다시 고르는 단추가 있었다 |
-| ▲ 먼저, ● 쪽도 이어서 | 1 → 8 → 11 → 4 → 10 → 13 → 3 → 5 → 7 → 9 → 16 | 끝 칸에 닿았다. 칸 13에서 '오늘은 여기까지'를 누르면 ▲ 쪽만 하고 칸 16으로 간다 |
-| 정답이 미리 보이는지 | 묻는 칸 1, 3, 4, 5, 11 | 화면판에서 묻는 칸의 글에 그 칸의 정답('요셉이에요', '고센이에요', '형 다섯 명', '식구 수대로', '바로예요', '라암셋이에요')이 없는 것을 스크립트로 확인했다 |
-
-- 화면판은 '1인판 원고'에서 스크립트로 만들었다(세션 임시 폴더의 스크립트, 저장소에는 없음). 원고를 고치면 다시 만든다.
-- ⚠ 실제 아이가 혼자 해 보지는 않았다. ⚠ 인쇄판을 실물로 인쇄해 비침을 보지는 않았다. ⚠ 컴퓨터 화면과 다른 휴대폰 브라우저에서는 열어 보지 않았다(시험한 것은 세션의 크로미움 하나)
+| 첫 화면 | 칸 1 | 휴대폰 크기(390×664) 첫 화면에 '첫 행동: 창세기 46장 31절을 펴서'가 보이고, 첫 단추가 화면 안(아래 끝 440)에 있다. 사진: `docs/인계/사진/C16_첫화면.png` |
+| ● 먼저, 다른 때 두 번, 두 쪽 모두 | 1 → 1나 → 8 → 8나 → 3 → 12 → 3 → 7 → 7나 → 7다 → 9 → 9나 → 9다 → 11 → 15 → 11 → 10 → 10나 → 13 → 13나 → 13다 → 16 | 끝 칸('끝. 수고했어요')까지 갔다. 다른 때(12, 15)에서 '다시 고르러' 단추가 고르던 칸으로 돌려보냈다 |
+| ▲ 먼저, ● 쪽도 이어서 | 1 → 1나 → 8 → 8나 → 11 → 10 → 10나 → 13 → 13나 → 13다 → 3 → 7 → 7나 → 7다 → 9 → 9나 → 9다 → 16 | 끝 칸까지 갔다. 위 머리의 '수첩 모양' 단추가 빈칸만 보여 주고(정답 낱말 없음) 하던 칸으로 돌아왔다 |
+| 정답이 미리 보이는지 | 확인 칸이 아닌 칸 1, 1나, 3, 7, 10, 11, 12, 15 | 정답 낱말(요셉이에요, 고센이에요, 바로예요, 라암셋, 식구 수대로, 다섯 명이, 열 명이에요, 애굽 백성이에요)이 어느 칸에도 없다 |
 
 ## 원고 자체 점검
 
 | 점검 | 결과 |
 |---|---|
-| 칸 이동 | 스크립트로 '→ 칸' 줄을 따라가 봤다. 출구 없는 칸, 없는 칸으로 가는 줄, 닿지 않는 칸이 없다. 화면판에서도 단추로 두 길을 끝까지 갔다 |
-| 해답이 다음 쪽에 비치지 않는지 | 정답은 확인 칸에만 있다. 화면판은 한 칸만 보인다. 인쇄판은 한 쪽에 한 칸, 뒷면은 비운다. 묻는 칸과 확인 칸의 번호가 붙어 있지 않다 |
+| 칸 이동 | 칸 20개. 칸 1에서 끝 칸까지 가는 길 18가지를 모두 셌다. 막힌 칸, 없는 칸으로 가는 줄, 닿을 수 없는 칸이 없다 |
+| 해답이 다음 쪽에 비치지 않는지 | 정답은 확인 칸에만 있다. 화면판은 한 칸만 보인다. 인쇄판은 확인 칸을 봉투에 따로 두고, 나머지는 한 쪽에 한 칸, 뒷면은 비운다. 칸 제목에 정답이 없다(칸 7은 '47장 처음 읽기') |
 | 접지 않고 완주 | 메모지나 접는 덮개 없이, 번호만 따라 끝까지 간다 |
-| 첫 화면의 첫 행동 | 칸 1에 '첫 행동: 창세기 46장 31절을 펴요'가 굵게 있다 |
-| 개역개정과 겹치는 말 | 1인판 원고를 46:28–34, 47:1–17, 42:3–8과 세 가지로 대조했다: 어절 단위(첫 음절의 첫소리·가운뎃소리까지, 네 어절), 글자 단위(띄어쓰기 무시, 8자), 한 문장의 낱말이 사이에 말이 끼어도 본문과 같은 차례로 네 개 넘게 이어지는지(문장 낱말의 6할 이상). 첫 원고는 칸 4의 '요셉은 가족에게 먹을 것도 주었어요'가 걸려 C11의 고친 말로 바꿨다. 남은 걸림은 받아 주는 답 '형들과 아버지의 가족'(세 어절)이다 |
-| 말투 | 모두 존댓말(해요체)이다 |
-| 쓰지 않은 말 | "틀렸어요", 감점, 실패 표현이 없다. 확인 칸은 '내 답과 견줘 봐요', '다른 곳이 있으면 고쳐요'로 쓴다 |
+| 첫 화면의 첫 행동 | 칸 1에 '첫 행동: 창세기 46장 31절을 펴서, 34절까지 읽어요'가 굵게 있다 |
+| 한 화면의 글 | 화면판의 모든 칸에서 문장을 셌다. 4문장을 넘는 칸이 없다(11~13세 기준 2~4문장). 처음에 넘던 칸 7, 8, 9, 13, 15, 1나, 7다는 줄이거나 9다, 13다로 나눴다 |
+| 개역개정과 겹치는 말 | 창 46:28–34, 47:1–27, 42:3–8과 세 가지 방법(낱말 첫소리, 글자 9자, 낱말 차례)으로 대조했다. 네 어절 넘게 이어지는 곳이 없다. 가장 긴 곳은 '형들과 아버지의 가족'(46:31, 세 어절)이다 |
+| 말투 | 모두 해요체다. 칸 이동 줄도 '→ 칸 N로 가요'로 쓴다 |
+| 쓰지 않은 말 | "틀렸어요", 감점, 실패 표현이 없다. 확인 칸은 '내 답과 견줘 봐요', '다른 곳은 다시 읽고 고쳐요'로 쓴다 |
 
-## 별도 내용 검증
+## 별도 내용 검증 (2026-11-23)
 
-(작성 과정을 보지 않은 검증자의 결과를 적는다)
+작성 과정을 보지 않은 검증자가 C16.md, C16.html, 첫 화면 사진을 C11과 46–47장, 42장으로 대조하고 화면판을 끝까지 눌러 봤다. 필수 7건, 권장 7건이 나왔고 모두 반영했다. 1인판 원고를 새로 쓰고 화면판을 다시 만들었다.
+
+| 지적 | 고친 것 |
+|---|---|
+| 필수: 수첩의 빈칸 모양이 어디에도 없고, C11을 열면 답을 봄 | '수첩 빈칸 (답 없음)'을 이 문서에 싣고, 화면판에 '수첩 모양' 단추를 더했다. 겉 면의 ● 칸은 '그 앞에 선 형'으로 적었다 |
+| 필수: 칸 11의 '고센은 바로가 말한 땅'이 같은 화면의 물음에 먼저 답함 | 그 줄을 빼고, 고센과 라암셋의 설명은 확인 칸 13으로 옮겼다 |
+| 필수: 47:1과 47:11이 다음 절로 이어져 고르기 전에 답을 읽게 됨 | 두 고르기를 47장을 펴기 전(칸 3, 11)으로 옮기고, 고른 뒤 칸 7·10에서 1–3·7절, 11–12절을 읽게 했다 |
+| 필수: 인쇄판에서 넘기는 쪽에 답이 보임(칸 7 제목, 확인 칸 9, 13) | 칸 7 제목을 '47장 처음 읽기'로 바꾸고, 확인 칸을 봉투에 따로 두게 했다 |
+| 필수: '사람을 가리키는 낱말'로는 '우리', '종들'과 '선조'가 갈리지 않음 | '우리와 종들은 형들 자신이에요. 자기들 말고 그 일을 한 사람'으로 고치고 확인 칸 9에도 적었다 |
+| 필수: 다른 때 칸에 물음과 결론이 한 화면에 함께 있고, 찾은 사람이 맞는지는 확인 칸에 없음 | 결론 줄을 확인 칸 9다, 13나로 옮겼다 |
+| 필수: 한 화면의 글이 너무 김(아홉 칸이 4문장을 넘음) | 긴 칸을 '나', '다'로 나누고 안내 줄을 줄였다 |
+| 권장: '당신들'이라고 적은 아이 | 칸 8에 '31절에서 요셉이 누구에게 말했는지 봐요'를 넣었다 |
+| 권장: 47:27이 빠져 고센과 라암셋이 다른 곳처럼 읽힘, 근거 장절의 46:28 | 칸 13에 27절 줄을 넣고, 근거 장절에 46:28, 47:27을 더했다 |
+| 권장: '바로의 물음'을 적을 자리가 없음 | 수첩 빈칸의 ● 쪽에 자리를 두고, 칸 7나에 '생업은 하는 일'을 넣었다 |
+| 권장: 일지에 무엇을 적을지 없음 | 칸 9다, 13다에 '제목 · 장절 · 찾은 것' 꼴로 적었다 |
+| 권장: 수첩에 적는 줄의 『탐험대 이야기』 표시, '심부름'이 탐험대의 이름이라는 말 | 표시를 붙이고 칸 1나에 적었다 |
+| 권장: 인쇄판의 '→ 칸 8로 간다'는 해요체가 아님 | '→ 칸 8로 가요'로 바꿨다 |
+| 권장: 단추 문구의 번호 겹침, 두 쪽을 다 한 아이의 단추, 빠진 번호 | 단추 문구를 원고와 같게 하고, '두 쪽을 다 했거나, 오늘은 여기까지'로 바꾸고, 인쇄판 안내에 '없는 번호는 빠진 쪽이 아니다'를 적었다 |
+
+- 검증자가 문제없다고 본 것: 화면판이 원고와 같고 모든 칸에 닿는 것, 첫 화면에 첫 행동이 보이는 것, 확인 칸의 정답이 C11과 본문에 맞는 것, 사실 오류 없음, 네 어절 넘는 겹침 없음, 3.5 해당 없음, 47장 18절부터를 읽지 않게 한 처리.
+- ⚠ 고친 원고는 다시 별도 검증을 받지 않았다.

diff --git a/docs/인계/창세기_Claude.md b/docs/인계/창세기_Claude.md
@@ -1,7 +1,7 @@
-본편 다음 원고: **E20** · [창세기 1~50장 본편 66회 편성안](../창세기/창세기_본편_회차표.md). 첫 묶음 E01~E08 초안 끝, 모두 별도 검증 반영 끝. 둘째 묶음 E09~E16(창 4:1–11:32): E09(창 4:1–16) 별도 검증 반영 끝, E10(창 4:17–5:32) 별도 검증 반영 끝, E11(창 6:1–22) 별도 검증 반영 끝, E12(창 7:1–24) 별도 검증 반영 끝, E13(창 8:1–22) 별도 검증 반영 끝, E14(창 9:1–29) 별도 검증 반영 끝, E15(창 10:1–11:9) 별도 검증 반영 끝. E16(창 11:10–32) 별도 검증 반영 끝. 셋째 묶음 E17(창 12:1–9) 별도 검증 반영 끝. E18(창 12:10–13:4) 별도 검증 반영 끝. E19(창 13:5–18) 초안 끝·별도 검증 대기. 다음 E20 첫 행동: 회차표 20행(창 14:1–24)을 열고, E19 일지의 '소돔까지 장막을 옮긴 롯'에서 시작해 롯에게 일어난 일부터 읽고, 돌아온 아브람을 만난 멜기세덱과 소돔 왕의 말을 구별하는 판을 쓴다(전쟁 장면은 3.5 확인). 놀이 쪽은 C11, C12 별도 검증 반영 끝, C13 별도 검증 반영 끝, C14 별도 검증 반영 끝, C15 별도 검증 반영 끝, C16 초안 끝·별도 검증 대기, 다음 C17
+본편 다음 원고: **E20** · [창세기 1~50장 본편 66회 편성안](../창세기/창세기_본편_회차표.md). 첫 묶음 E01~E08 초안 끝, 모두 별도 검증 반영 끝. 둘째 묶음 E09~E16(창 4:1–11:32): E09(창 4:1–16) 별도 검증 반영 끝, E10(창 4:17–5:32) 별도 검증 반영 끝, E11(창 6:1–22) 별도 검증 반영 끝, E12(창 7:1–24) 별도 검증 반영 끝, E13(창 8:1–22) 별도 검증 반영 끝, E14(창 9:1–29) 별도 검증 반영 끝, E15(창 10:1–11:9) 별도 검증 반영 끝. E16(창 11:10–32) 별도 검증 반영 끝. 셋째 묶음 E17(창 12:1–9) 별도 검증 반영 끝. E18(창 12:10–13:4) 별도 검증 반영 끝. E19(창 13:5–18) 초안 끝·별도 검증 대기. 다음 E20 첫 행동: 회차표 20행(창 14:1–24)을 열고, E19 일지의 '소돔까지 장막을 옮긴 롯'에서 시작해 롯에게 일어난 일부터 읽고, 돌아온 아브람을 만난 멜기세덱과 소돔 왕의 말을 구별하는 판을 쓴다(전쟁 장면은 3.5 확인). 놀이 쪽은 C11, C12 별도 검증 반영 끝, C13 별도 검증 반영 끝, C14 별도 검증 반영 끝, C15 별도 검증 반영 끝, C16 별도 검증 반영 끝, 다음 C17
 마친 카드와 파일: **C01**~**C04** `docs/창세기/연속/C01.md`~`C04.md` (접이 지도, 뒤집기 판, 사진 보관함, 만남 교차판). 모두 별도 검증 반영. **C05** `C05.md` (우물 셋·사건 쪽지·이름 쪽지) 별도 검증 반영. **C06** `C06.md` (두 면 쪽지 판·검산 띠) 별도 검증 반영. **C07** `C07.md` (꿈 창 두 장·설명 기록 카드) 별도 검증 반영. **C08** `C08.md` (봉투 두 개·예상 카드) 별도 검증 반영. **C09** `C09.md` (두 차례 판·사건 카드·아는 것 띠) 별도 검증 반영. **C10** `C10.md` (말 쪽지 일곱·접는 인물 카드) 별도 검증 반영
 실제로 해 본 두 경로: C01 가 봉투 먼저 / 나 봉투 먼저. C02 밤 면 먼저 / 아침 면 먼저(큰 돌 고른 세 자리 포함). C03 ㉮ 준 사람+㉯ 때 / ㉯ 준 사람+㉮ 주인(주인 둘 포함). C04 45+46 / 33+46(틀리게 놓은 경우 포함). C05 사건 쪽지 먼저 / 이름 쪽지 먼저(첫 두 우물을 바꾼 세 경우, 세바를 놓은 경우 포함). C06 아이 가 면 / 아이 나 면(역할을 바꿔 한 판씩, 혼자 한 판, 잘못 적은 여덟 경우 포함). C07 소의 창 먼저 / 이삭의 창 먼저('둘'을 고른 경우 포함). C08 추측 '형제' / 추측 '애굽 사람'(다른 때 카드를 거친 경우, 42:25를 먼저 읽은 경우 포함). C09 판 가 / 판 나('베냐민이 가져갔다'고 말한 경우 포함). C10 펴고 시작 / 접은 채로 시작(44:17 쪽지를 유다 칸에 놓은 경우 포함). 모두 혼자 두 역할, ⚠ 종이로 잘라 접어 보지는 않음
-검증 또는 감수 상태: C01~C15, E01~E18 별도 검증 반영 끝(지적 수는 아래 표), 모두 미감수 / E07·E08·E09·E11·E12·E14는 감수 필수(3.5), E04·E10은 해당 가능
+검증 또는 감수 상태: C01~C16, E01~E18 별도 검증 반영 끝(지적 수는 아래 표), 모두 미감수 / E07·E08·E09·E11·E12·E14는 감수 필수(3.5), E04·E10은 해당 가능
 놀이 쪽 다음 카드와 첫 행동: **C11** 고센의 두 심부름(G08, 창 46:31–34, 47:1–12): '누구를 만나러 갔나'와 '무엇을 받았나' 중 먼저 고른 물음에 따라 다른 장소를 여는 지도 수첩 쓰기. 둘 중 하나만 해도 발견 한 가지가 남아야 한다
 대표 확인과 감수(병행): 대표가 11/24에 놀이 5 인쇄본(docs/창세기/놀이/놀이5_인쇄본.pdf)으로 실제 아이와 한 판 해 보고 3장 기록표를 채운다(대표 승인 2026-11-23). 그 결과로 놀이 1을 고친다
 점검 결과: node tools/check.js 빠른 점검 마지막 두 줄 — "점검 종류: 빠른 · 통과 4/5 · 확인 필요 1" / "점검 결과: 합격 (확인 필요 1건)". 확인 필요 1건('내용 파일이 바뀜': 장면목록, content.js)은 이 브랜치가 main에서 갈라질 때부터 있던 차이이고, 이번에 바꾼 파일은 창세기 문서뿐이다 (자동 조작 미실행)
@@ -86,7 +86,7 @@
 | C13 11~13세가 숨길 단서 | `docs/창세기/연속/C13.md` | 판 A 창 12:4–8 (C01), 판 B 창 37:1–3, 23, 41:14, 41–46 (C03) | 두 판 × 두 길(적은 단서로 / 공개 카드·덮개 더), 휴(13세) | 끝. 별도 검증 필수 5·권장 9 반영, 두 판의 플레이 원고 새로 씀 (문서 맨 아래) | 미감수 (3.5 해당 없음. 확인 권함: 12:8 '여호와의 이름을 부름', 한 주간 실천) |
 | C14 14~17세의 기록 대조 | `docs/창세기/연속/C14.md` | 판 A 창 42–43장 (C08), 판 B 창 42, 44–45장 (C10) | 두 판, 가설을 먼저 버리고(●▲, 43:22 / 45:3) 사실 카드를 두 칸(인물이 알던 것 / 독자만 아는 것)에 나눔, 온우(16세) | 끝. 별도 검증 필수 4·권장 9 반영, 판 짜임을 바꿔 새로 씀 (문서 맨 아래) | **감수 필수** (3.5: 14~19세 묵상 물음, 판 A의 43:23과 42:25) |
 | C15 둘이서 한 수씩 | `docs/창세기/연속/C15.md` | 창 26:17–23, 32–33 (C05) | 아이 둘이 이름 쪽지·사건 쪽지를 나눠 들고 우물마다 한 수씩(먼저 둔 사람은 차례 단서로 자리를 고르고 절을 보임, 뒤에 둔 사람은 절에서 짚은 뒤 놓음), 역할을 바꿔 두 판, 세바(다른 날 카드) | 끝. 별도 검증 필수 6·권장 7 반영, 규칙과 원고를 새로 씀 (문서 맨 아래) | 미감수 (3.5 해당 없음) |
-| C16 혼자서도 한 판 | `docs/창세기/연속/C16.md`, `C16.html`(화면판) | 창 46:31–34, 47:1–17, 42:3, 6 (C11) | 1인판 번호 칸(정답은 확인 칸 8·9·13에만), 화면판은 한 칸씩, 첫 화면 사진 `docs/인계/사진/C16_첫화면.png` | 초안·화면 시험 끝, 별도 검증 대기 | 미감수 (3.5 해당 없음) |
+| C16 혼자서도 한 판 | `docs/창세기/연속/C16.md`, `C16.html`(화면판) | 창 46:31–34, 47:1–17, 42:3, 6 (C11) | 1인판 번호 칸 20개(정답은 확인 칸 8·9·9나·9다·13·13나·13다에만, 인쇄 땐 봉투), 화면판은 한 칸씩·'수첩 모양' 단추, 첫 화면 사진 `docs/인계/사진/C16_첫화면.png` | 끝. 별도 검증 필수 7·권장 7 반영(원고와 화면판 새로 씀), 두 경로 자동 시험·4문장 이하 확인 | 미감수 (3.5 해당 없음) |
 
 - 공통 규칙서 4.2와 다른 점: C01에도 다른 장면으로 가는 갈래가 없다. 쪽지를 잘못 놓으면 다른 봉투, 확인 줄, 창세기 12장으로 확인하고 두 장을 맞바꾼다(놀이 1·4와 같은 처리). C02는 4.2대로 큰 돌을 고르면 29장 우물 장면을 다녀온다.
 - 새 기준(공통 규칙서 7절, 네 어절부터)으로 쓰는 도구: 원고를 개역개정 해당 장과 어절 단위로 대조하는 스크립트와, 띄어쓰기를 무시한 글자 단위 대조 스크립트(E03 검증에서 '먹을 거리'처럼 띄어쓰기가 달라 어절 대조가 놓친 곳이 나옴)를 세션 작업 폴더에서 쓴다(본문 파일은 저장소에 올리지 않는다). C01~C04, E01~E05를 글자 단위로 다시 돌려, 10자 이상 같은 구간은 세 어절 이하의 이름·찾을 말뿐인 것을 확인했다. 대조하다 G16 칸 5의 줄("세마포 옷을 입히고 금 사슬도…")이 41:42와 같은 어절 네 개가 이어지는 것을 찾았다. G05 칸 6의 우물 줄("양 떼가 다 모이면 목자들이…")도 29:8과 같은 낱말 넷이 이어진다(C02 검증에서 찾음). G01 칸 2의 '빛과 어둠을 나누셨어요' 줄(1:4)과 칸 6의 '빛을 낮이라고 부르셨어요' 줄(1:5)도 같은 낱말 넷이 이어진다(E01 검증에서 찾음. E01은 다르게 씀). G01·E01의 날을 마치는 줄('저녁이 지나고 아침이 왔어요. ○째 날이에요')은 E01 검증에서 1:5 한 문장의 동사만 바꾼 꼴에 가깝다는 지적을 받아, 본편은 '하루가 저물고 다시 아침이 밝았어요. ○째 날이 지났어요'로 쓴다. 셋 다 별도 검증을 마친 원고라 아직 고치지 않았다. 고칠지 총괄이 정한다. C03은 G16의 그 줄을, C02는 G05의 그 줄을 가져오지 않고 새로 짰다.
